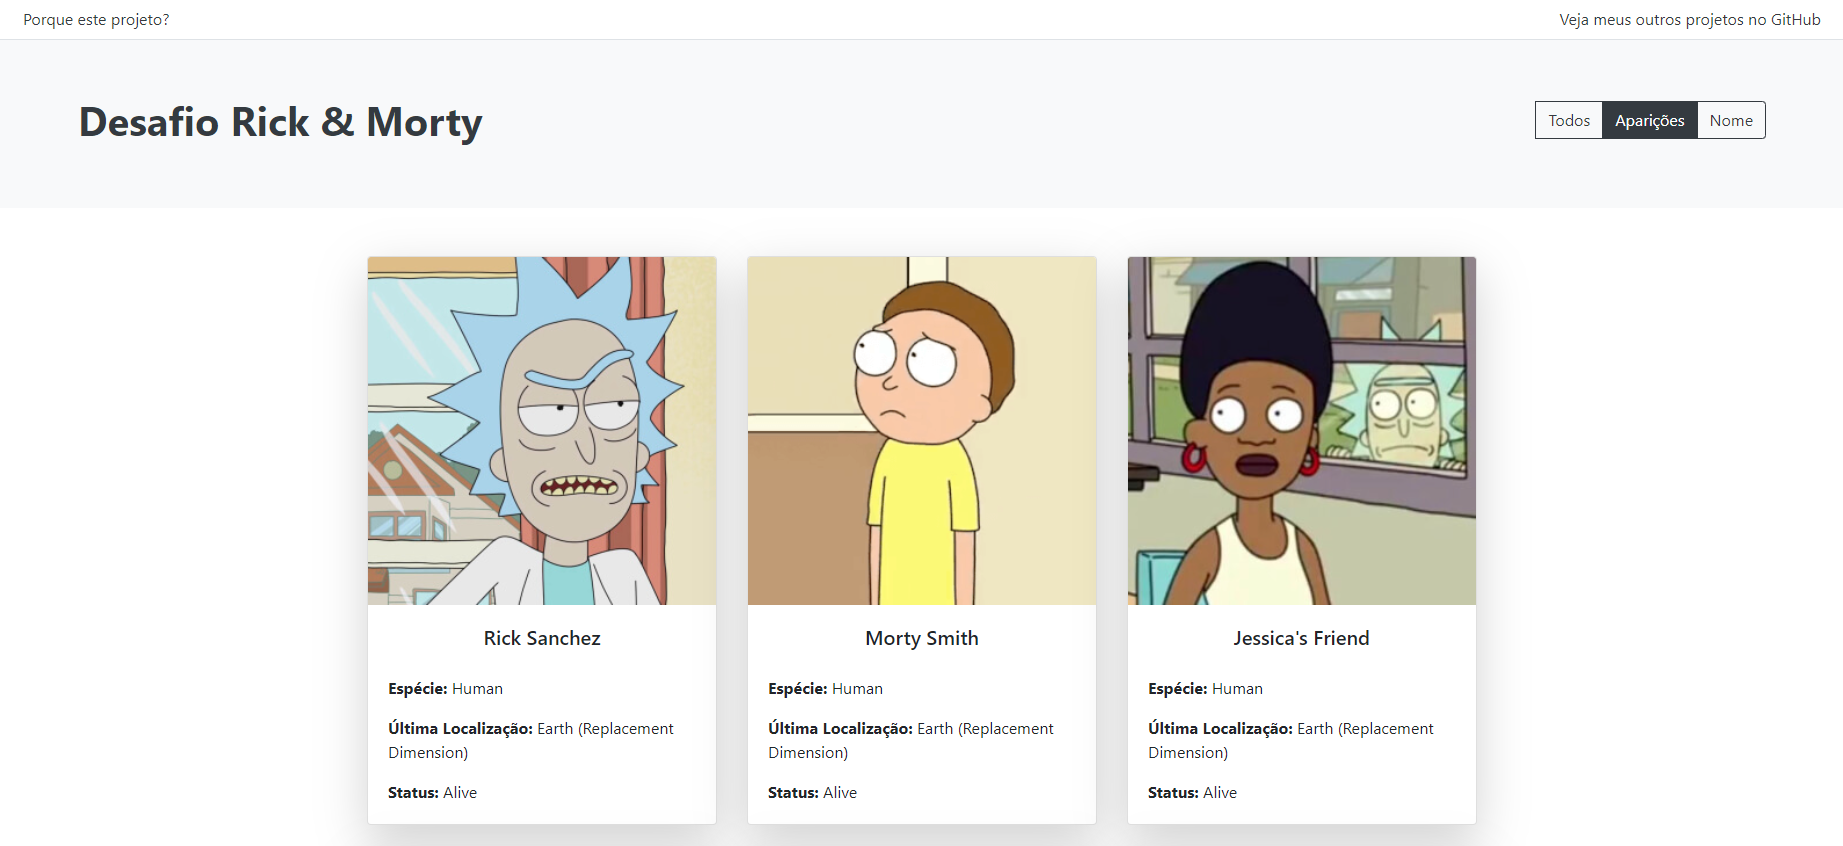
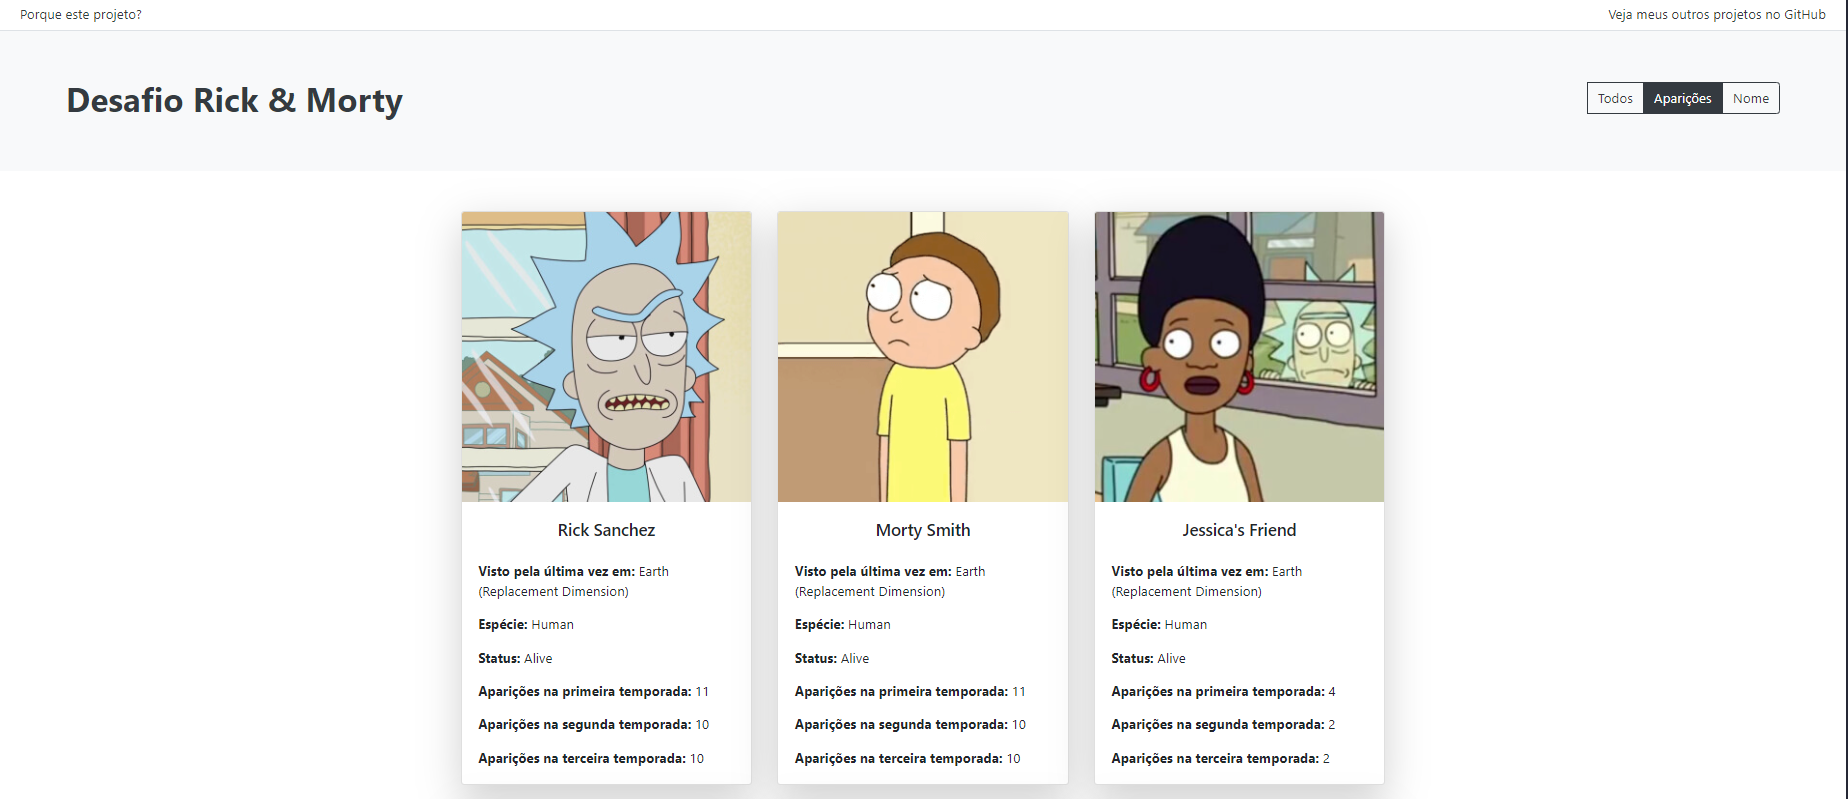
Alteração do readme, png de exemplo e correção de bug no controller. Finalização do projeto

diff --git a/controller.js b/controller.js
@@ -1,4 +1,4 @@
-const personagens = require('./characters.json');
+const personagensJSON = require('./characters.json');
 const { ordenadorAparicoes, ordenadorNomes } = require('./utils/ordenadores');
 const { desestruturarTemporadas } = require('./utils/desestruturadores')
 
@@ -6,13 +6,13 @@ exports.extraindoDatabase = (req, res) => {
     try {
         let personagensOrdenados = [], personagensVivos = [];
 
+        let personagens = desestruturarTemporadas(personagensJSON);
+
         for (let personagem of personagens){
             if (personagem.status == 'Alive') {
                 personagensVivos.push(personagem)
             };
         };
-
-        personagensVivos = desestruturarTemporadas(personagensVivos)
         
         if (req.params.ordenacao == 'Aparicoes') {
             personagensOrdenados = ordenadorAparicoes(personagensVivos);

diff --git a/README.md b/README.md
@@ -1,27 +1,39 @@
-# Teste desenvolvedor JR.
+# Desafio Técnico: Rick and Morty - Personagens
 
-Utilizando Node.js e Express retorne uma página estática que contenha uma lista dos personagens de Rick e Morty com os seguintes atributos: `nome, gênero, status, quantidade de aparições em cada uma das temporadas e aparições no total`, os personagens devem ser lidos a partir do arquivo: `characters.json`.
+## Objetivo
+O objetivo deste projeto é desenvolver uma aplicação utilizando **Node.js** e **Express** para exibir de forma dinâmica uma lista dos personagens de *Rick and Morty*. A aplicação deve apresentar informações sobre cada personagem, como nome, gênero, status de vida e a quantidade de aparições ao longo das temporadas. 
 
-## Considerações:
+Para isso, o projeto exige a implementação de funcionalidades para ordenar os personagens de acordo com a quantidade de aparições e o nome, além de organizar esses dados de maneira clara para o usuário.
 
-- Devem ser listados somentes os personagens vivos
 
-- Ordenar por: (decrescente) quantidade de aparições, nome (crescente)
+## Habilidades Testadas
+- **Melhoria na lógica de programação** através da manipulação de arrays e implementação de algoritmos de ordenação.
+- **Desenvolvimento de habilidades full-stack:**
+  - Backend com **Node.js** e **Express**.
+  - Frontend com **HTML**, **EJS**, **Bootstrap** e **JavaScript**.
 
-- Existem 3 temporadas com 31 episódios ao todo, sendo a primeira temporada com 11 episódios e as restantes com 10 episódios cada.
+## O que foi Feito
 
-- Fique a vontade para utilizar qualquer motor de view (PUG, ejs, handlebars, etc..)
+### Lógica de Programação
+- **Ordenação dos personagens:**
+  - Ordenação alfabética (ordem crescente de nomes).
+  - Ordenação por quantidade de aparições (ordem decrescente).
+- **Função de processamento de episódios:**
+  - Criação de função que divide a lista de episódios em 3 inteiros, representando o número de aparições por temporada.
 
-# Envio do teste
+### Frontend
+- **HTML + EJS (motor de templates):**
+  - Exibição dinâmica dos dados na página.
+- **Bootstrap:**
+  - Estilização da interface da aplicação, como pode ser visto na file _example.png_.
+- **JavaScript:**
+  - Manipulação de dados e interação com o usuário.
 
-Ao finalizar, deve ser feito um PR (pull request) para este repositório contendo o seu nome e suas modificações para que seja feita a avaliação.
+### Backend
+- **Node.js + Express:**
+  - Estrutura do servidor e arquitetura **MVC**.
+- **Controller:**
+  - Processamento e envio do arquivo `characters.json` para a view.
 
-# Avaliação
-
-Irá ser avaliado: Seu conhecimento técnico, sua habilidade para resolver problemas de forma simples e eficiente e boas práticas de código.
-
-# Exemplo
-
-Quanto ao design fique livre para criar, no entanto todos os dados devem ser exibidos conforme é mostrado no seguinte exemplo:
-
-![alt text](/example.png)
+## Conclusão
+Esse projeto me permitiu aplicar conceitos técnicos como **ordenação** e **arquitetura MVC**, além de desenvolver uma aplicação **full-stack** funcional, consolidando e ampliando minhas habilidades como desenvolvedor.
